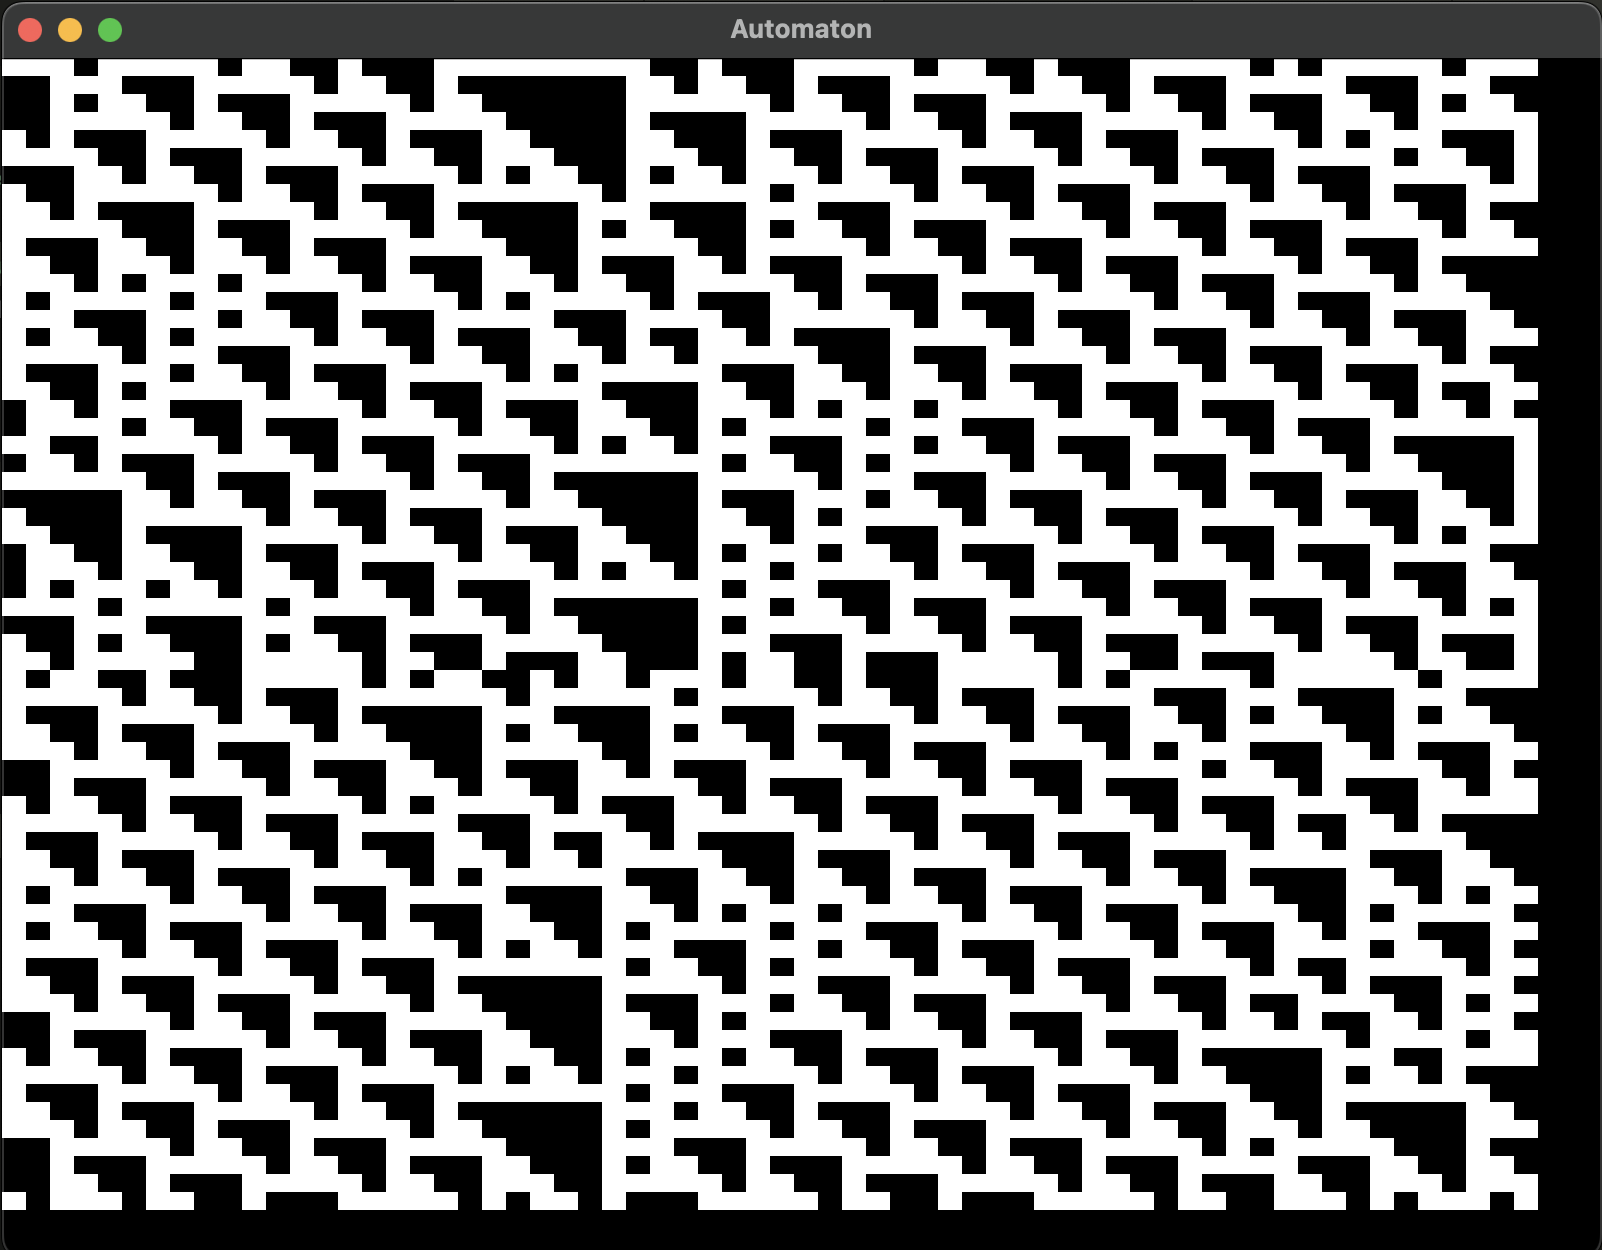
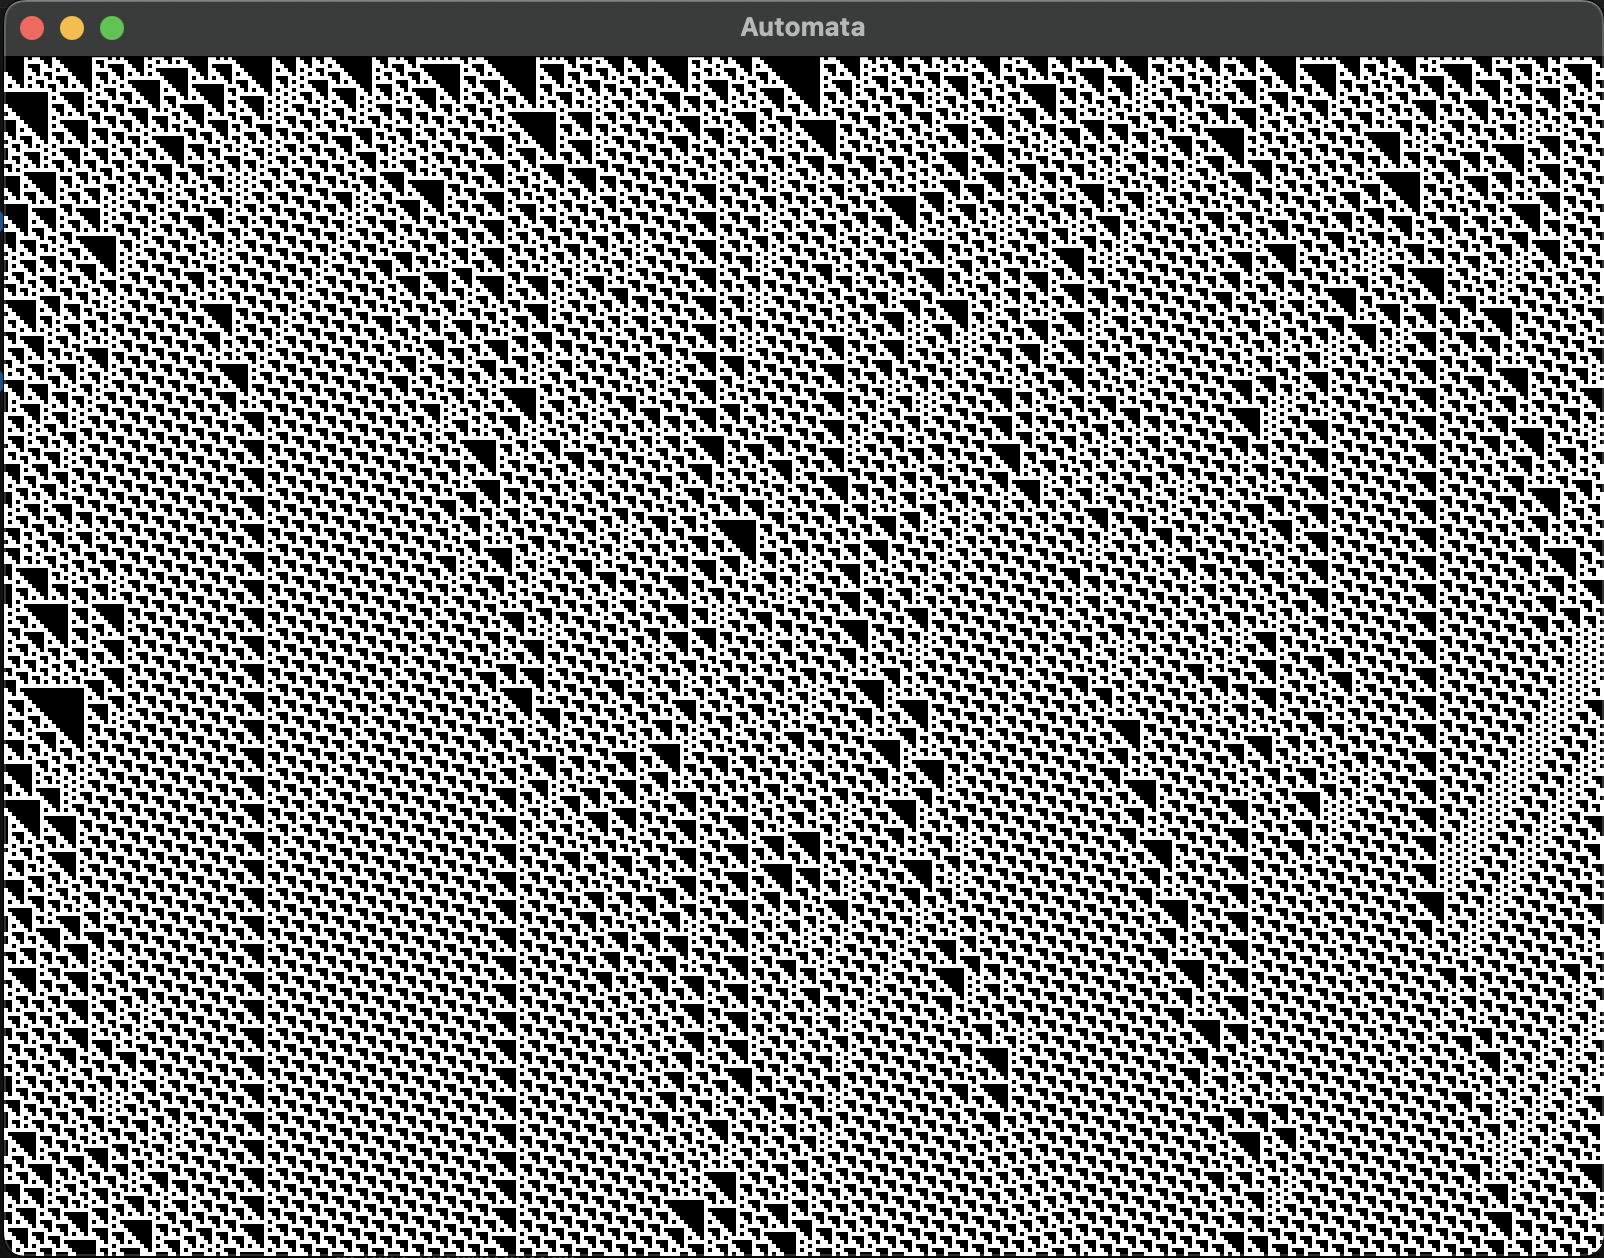
Deleted infinite model updating

diff --git a/include/Model.hpp b/include/Model.hpp
@@ -11,14 +11,17 @@
 namespace automaton {
 
 class Rule {
-  unsigned char val_;
-
 public:
-  Rule(unsigned char val) : val_(val) {}
+  using value_type = unsigned char;
+
+  Rule(value_type val) : val_(val) {}
 
   bool calculateValue(std::bitset<3> neighbors) const {
     return val_ & (1 << neighbors.to_ulong());
   }
+
+private:
+  value_type val_;
 };
 
 class Row {
@@ -45,32 +48,30 @@ public:
     std::cout << string << std::endl;
   }
 
-  void randomize(unsigned int seed) {
-    std::srand(seed);
+  void randomize() {
+    std::srand(0);
     std::vector<bool> data(data_.size());
-    size_t size = std::rand() % data_.size();
-    std::fill(data.begin(), data.begin() + size, 1);
+    size_t num_filled = std::rand() % data_.size();
+    std::fill(data.begin(), data.begin() + num_filled, 1);
     std::shuffle(data.begin(), data.end(), std::mt19937{});
     for (size_t i = 0; i != data_.size(); ++i) {
       data_.set(i, data[i]);
     }
-    data_.shrink_to_fit();
   }
 };
 
 class Polygon {
   size_t width_;
   size_t height_;
-  size_t curRowIndx_;
 
   std::vector<Row> rows_;
 
 public:
   Polygon(size_t height, const Row& boundaryCond)
   : width_(boundaryCond.size()), height_(height),
-    curRowIndx_(0), rows_(height) {
+    rows_(height) {
       std::fill(rows_.begin(), rows_.end(), Row{width_});
-      rows_[0] = boundaryCond;
+      rows_.front() = boundaryCond;
     }
 
   size_t getWidth() const { return width_; }
@@ -84,16 +85,24 @@ public:
   auto end() { return rows_.end(); }
   auto end() const { return rows_.end(); }
 
-  void update(const Rule& rule) {
-    auto& curRow = rows_.at(curRowIndx_);
-    curRowIndx_ = (curRowIndx_ + 1) % height_;
-    auto& nextRow = rows_.at(curRowIndx_);
-    std::bitset<3> neighbors;
-    for (auto i = 0; i != static_cast<int>(width_); ++i) {
-      neighbors[0] = curRow.get((i - 1) % width_);
-      neighbors[1] = curRow.get(i);
-      neighbors[2] = curRow.get((i + 1) % width_);
-      nextRow.set(i, rule.calculateValue(neighbors));
+  void fill(const Rule& rule) {
+    auto prevRow = rows_.begin();
+    auto curRow = std::next(rows_.begin());
+    for (; curRow != rows_.end(); ++curRow) {
+      std::bitset<3> neighbors;
+      for (auto i = 0; i != static_cast<int>(width_); ++i) {
+        neighbors[0] = prevRow->get((i - 1) % width_);
+        neighbors[1] = prevRow->get(i);
+        neighbors[2] = prevRow->get((i + 1) % width_);
+        curRow->set(i, rule.calculateValue(neighbors));
+      }
+      prevRow = curRow;
+    }
+  }
+
+  void dump() const {
+    for (const auto& row : rows_) {
+      row.dump();
     }
   }
 };
@@ -106,8 +115,8 @@ public:
   Model(const Rule& rule, const Polygon& poly)
   : rule_(rule), poly_(poly) {}
 
-  void update() {
-    poly_.update(rule_);
+  void fill() {
+    poly_.fill(rule_);
   }
 
   const Polygon& getPolygon() const {

diff --git a/include/View.hpp b/include/View.hpp
@@ -12,7 +12,7 @@ class View {
   Model& model_;
 
   sf::RenderWindow sfWindow_;
-  sf::Time period_;
+  sf::View sfView_;
   sf::Texture sfTexture_;
   std::vector<sf::Color> buf_;
 
@@ -25,18 +25,19 @@ class View {
     }
     sfTexture_.update(reinterpret_cast<sf::Uint8*>(buf_.data()));
     sf::Sprite sfSprite{sfTexture_};
-    auto scaleX = sfWindow_.getSize().x / sfTexture_.getSize().x;
-    auto scaleY = sfWindow_.getSize().y / sfTexture_.getSize().y;
+    auto scaleX = sfView_.getSize().x / sfTexture_.getSize().x;
+    auto scaleY = sfView_.getSize().y / sfTexture_.getSize().y;
     sfSprite.scale(scaleX, scaleY);
     sfWindow_.clear(sf::Color::Black);
     sfWindow_.draw(sfSprite);
   }
 
 public:
-  View(Model& model, size_t freq = 60, unsigned int width = 800, unsigned int height = 600)
-  : model_(model), period_(sf::microseconds(1000000 / freq)) {
+  View(Model& model, unsigned int width = 800, unsigned int height = 600)
+  : model_(model) {
     const auto& poly = model.getPolygon();
-    sfWindow_.create(sf::VideoMode(width, height), "Automaton");
+    sfWindow_.create(sf::VideoMode(width, height), "Automata");
+    sfView_ = sfWindow_.getDefaultView();
     sfTexture_.create(poly.getWidth(), poly.getHeight());
     buf_.resize(poly.getWidth() * poly.getHeight());
     buf_.shrink_to_fit();
@@ -44,23 +45,21 @@ public:
 
   void run() {
     sf::Event sfEvent;
-    sf::Clock sfClock;
-    auto elapsedSinceUpdate = sf::Time::Zero;
-    auto startSinceUpdate = sfClock.getElapsedTime();
+    model_.fill();
     while(sfWindow_.isOpen()) {
       while (sfWindow_.pollEvent(sfEvent)) {
         if (sfEvent.type == sf::Event::Closed) {
             sfWindow_.close();
+        } else if (sfEvent.type == sf::Event::Resized) {
+          sf::FloatRect sfRect{0., 0.,
+            static_cast<float>(sfEvent.size.width),
+            static_cast<float>(sfEvent.size.height)
+          };
+          sfView_ = sf::View{sfRect};
+          sfWindow_.setView(sfView_);
         }
       }
       drawPolygon(model_.getPolygon());
-      auto end = sfClock.getElapsedTime();
-      if (end - startSinceUpdate > period_) {
-        model_.update();
-        elapsedSinceUpdate = (end-startSinceUpdate);
-        elapsedSinceUpdate -= period_;
-        startSinceUpdate = sfClock.getElapsedTime();
-      }
       sfWindow_.display();
     }
   }

diff --git a/include/Manager.hpp b/include/Manager.hpp
@@ -18,7 +18,7 @@ namespace automaton {
 class Manager final {
   std::optional<std::string> boundCond_;
   std::optional<std::string> boundCondFile_;
-  std::optional<unsigned int> boundCondRandSeed_;
+  std::optional<size_t> width_;
   std::optional<size_t> height_;
   std::optional<unsigned char> ruleVal_;
   bool help_ = false;
@@ -33,8 +33,8 @@ class Manager final {
     config.add_options()
     ("bound-cond", po::value<std::string>(), "Boundary condition")
     ("bound-cond-file", po::value<std::string>(), "File with boundary condition")
-    ("rand", po::value<unsigned int>()->default_value(0), "Seed for randomizing boundary condition")
-    ("height", po::value<size_t>()->default_value(64), "Height of the polygon")
+    ("rand", po::value<size_t>()->default_value(400), "Width for randomizing boundary condition")
+    ("height", po::value<size_t>()->default_value(300), "Height of the polygon")
     ("rule", po::value<unsigned int>()->default_value(110), "Rule that will be applied");
 
     options_.add(generic).add(config);
@@ -62,8 +62,8 @@ class Manager final {
         boundCondFile_.emplace(boundCondFile);
       }
       if (vm.count("rand")) {
-        auto boundCondRandSeed = vm["rand"].as<unsigned int>();
-        boundCondRandSeed_.emplace(boundCondRandSeed);
+        auto width = vm["rand"].as<size_t>();
+        width_.emplace(width);
       }
       if (vm.count("height")) {
         auto height = vm["height"].as<size_t>();
@@ -112,9 +112,9 @@ class Manager final {
       std::ostringstream fileBuf;
       fileBuf << file.rdbuf();
       boundCond = Row{fileBuf.str()};
-    } else if (boundCondRandSeed_.has_value()) {
-      boundCond = Row{height};
-      boundCond.randomize(boundCondRandSeed_.value());
+    } else if (width_.has_value()) {
+      boundCond = Row{width_.value()};
+      boundCond.randomize();
     } else {
       throw std::logic_error("Boundary condition isn't set");
     }
